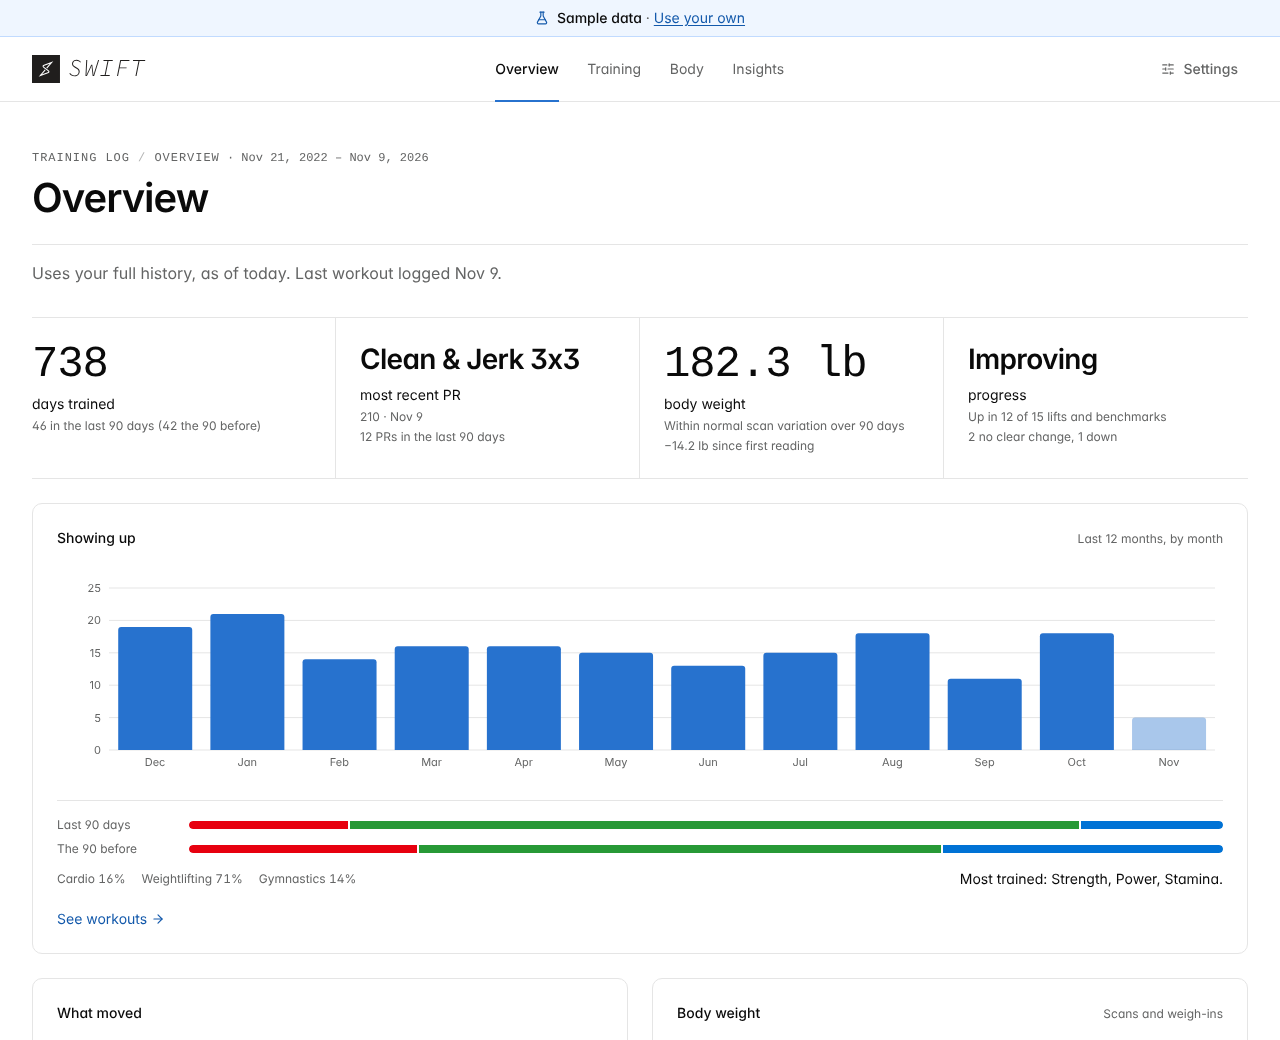
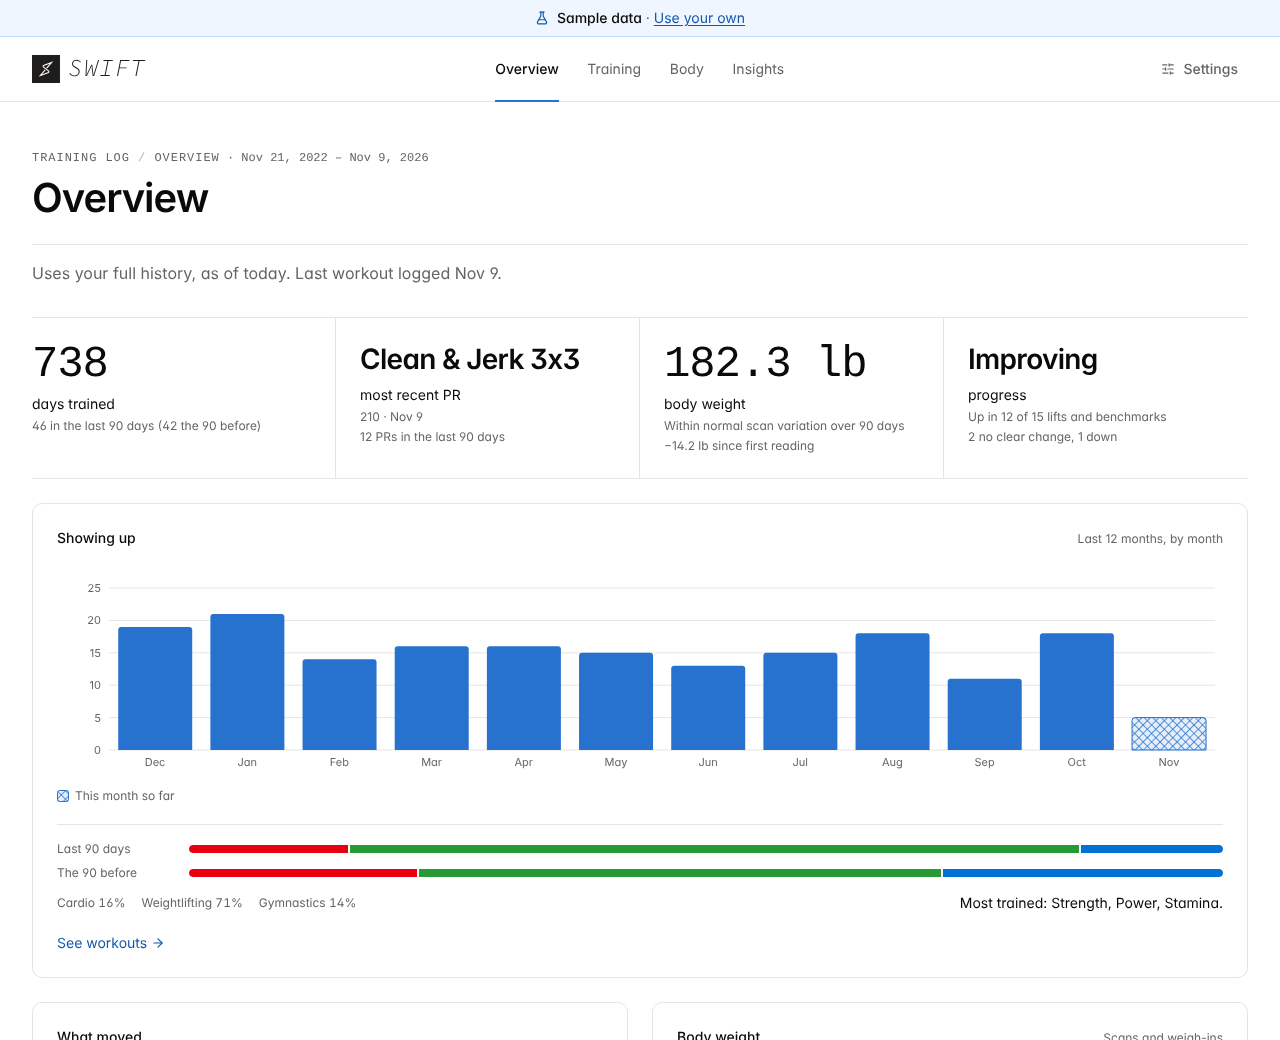
Overview: mark the in-progress month with a diamond cross-hatch
The current month's bar in Showing up was drawn at reduced opacity. It
now has an outlined diamond cross-hatch in the accent over a faint wash,
plus a small key under the chart ("This month so far"). A pattern reads
as a different kind of bar rather than a smaller amount, and doesn't
depend on colour. The key appears only when the current month has days
to show. README Overview screenshots retaken.

Claude-Session: https://claude.ai/code/session_01KDmeT7b27MNaTuikcGhEmZ

diff --git a/src/components/dashboard/overview/OverviewPanels.tsx b/src/components/dashboard/overview/OverviewPanels.tsx
@@ -1,3 +1,4 @@
+import { useId } from "react";
 import dayjs from "dayjs";
 import { ArrowRight } from "lucide-react";
 import { Bar, BarChart, CartesianGrid, Cell, Line, LineChart, XAxis, YAxis } from "recharts";
@@ -56,12 +57,50 @@ function PanelHeader({ title, caption }: { title: string; caption?: string }) {
 // ── Training ──────────────────────────────────────────────────────────────
 
 /**
+ * The fill that marks a month still under way: a diamond cross-hatch in the
+ * accent over a faint wash of it. A pattern rather than a lighter shade, so
+ * "in progress" reads as a different kind of bar, not a smaller amount, and
+ * survives without colour. One definition serves the bar and its key; `id`
+ * comes from useId with the colons React puts in it stripped, since they are
+ * awkward inside `url(#...)`.
+ */
+function InProgressPattern({ id }: { id: string }) {
+  return (
+    <pattern id={id} width="6" height="6" patternUnits="userSpaceOnUse" patternTransform="rotate(45)">
+      <rect width="6" height="6" fill="var(--primary)" fillOpacity={0.12} />
+      <path d="M0 0H6M0 0V6" stroke="var(--primary)" strokeWidth="1.5" />
+    </pattern>
+  );
+}
+
+function useSvgId(prefix: string): string {
+  return `${prefix}-${useId().replace(/[^a-zA-Z0-9_-]/g, "")}`;
+}
+
+/** The key under the chart: a swatch of the in-progress fill and what it means. */
+function InProgressKey() {
+  const id = useSvgId("in-progress-key");
+  return (
+    <span className="flex items-center gap-1.5 text-xs text-muted-foreground">
+      <svg width="12" height="12" aria-hidden className="shrink-0">
+        <defs>
+          <InProgressPattern id={id} />
+        </defs>
+        <rect x="0.5" y="0.5" width="11" height="11" rx="2" fill={`url(#${id})`} stroke="var(--primary)" strokeWidth="1" />
+      </svg>
+      This month so far
+    </span>
+  );
+}
+
+/**
  * Days trained per month over the last 12 months. The current month is drawn
- * lighter and its tooltip says "so far", so a partial month doesn't read as a
- * drop. No 90-day marker: 90 days rarely falls on a month boundary, so shading
+ * with a diamond cross-hatch (InProgressPattern) and its tooltip says "so far",
+ * so a partial month doesn't read as a drop. No 90-day marker: 90 days rarely falls on a month boundary, so shading
  * whole bars would mark a different period from the one the totals count.
  */
 function MonthlyDaysChart({ months }: { months: MonthDays[] }) {
+  const patternId = useSvgId("in-progress");
   const data = months.map((m) => ({ ...m, label: dayjs(`${m.month}-01`).format("MMM") }));
   const best = Math.max(1, ...months.map((m) => m.days));
   const { domain, ticks } = niceAxisTicks(0, best, AXIS_TICK_COUNT, true);
@@ -75,6 +114,9 @@ function MonthlyDaysChart({ months }: { months: MonthDays[] }) {
   return (
     <ChartContainer config={config} className="h-[200px] w-full min-w-0" role="img" aria-label={aria}>
       <BarChart data={data} margin={{ top: 8, right: 8, bottom: 0, left: 0 }}>
+        <defs>
+          <InProgressPattern id={patternId} />
+        </defs>
         <CartesianGrid vertical={false} stroke="var(--border)" />
         <XAxis dataKey="label" interval="preserveStartEnd" minTickGap={8} {...AXIS_PROPS} />
         <YAxis width={NUM_AXIS_WIDTH} domain={domain} ticks={ticks} interval={0} {...AXIS_PROPS} />
@@ -95,7 +137,13 @@ function MonthlyDaysChart({ months }: { months: MonthDays[] }) {
         />
         <Bar dataKey="days" fill="var(--primary)" radius={[3, 3, 0, 0]}>
           {data.map((m) => (
-            <Cell key={m.month} fill="var(--primary)" fillOpacity={m.partial ? 0.4 : 1} />
+            <Cell
+              key={m.month}
+              fill={m.partial ? `url(#${patternId})` : "var(--primary)"}
+              stroke={m.partial ? "var(--primary)" : "none"}
+              strokeWidth={m.partial ? 1 : 0}
+              data-partial={m.partial ? "true" : undefined}
+            />
           ))}
         </Bar>
       </BarChart>
@@ -127,7 +175,10 @@ export function TrainingPanel({
     <Card>
       <PanelHeader title="Showing up" caption={`Last ${OVERVIEW_CHART_MONTHS} months, by month`} />
       <CardContent className="flex flex-col gap-5">
-        <MonthlyDaysChart months={months} />
+        <div className="flex flex-col gap-2">
+          <MonthlyDaysChart months={months} />
+          {months.some((m) => m.partial && m.days > 0) ? <InProgressKey /> : null}
+        </div>
         <section aria-label="What it was made of" className="flex flex-col gap-3 border-t border-border pt-4">
           {mix.recent ? (
             <>

diff --git a/tests/overview.test.tsx b/tests/overview.test.tsx
@@ -303,6 +303,17 @@ describe("OverviewTab panels", () => {
     expect(screen.queryByText("Cardio, weights, gymnastics")).not.toBeInTheDocument();
   });
 
+  it("keys the in-progress month's cross-hatch, and only when the chart has a current month", () => {
+    const current = [logRow(daysAgo(2), "FRAN")];
+    const { unmount } = render(<OverviewTab insights={buildInsights(current)} workouts={current} asOf={TODAY} />);
+    expect(screen.getByText("This month so far")).toBeInTheDocument();
+    unmount();
+    // A log that ended over a year ago draws an empty current month: no hatched bar, so nothing to key.
+    const old = [logRow(daysAgo(500), "FRAN")];
+    render(<OverviewTab insights={buildInsights(old)} workouts={old} asOf={TODAY} />);
+    expect(screen.queryByText("This month so far")).not.toBeInTheDocument();
+  });
+
   it("says what's missing in one line each, and still offers the sections", () => {
     const rows = [logRow(daysAgo(200), "FRAN")];
     const onNavigate = vi.fn();

diff --git a/docs/overview.md b/docs/overview.md
@@ -103,7 +103,10 @@ a phone.
 28. **Showing up:** days trained per calendar month, as bars, over **the last 12 months**.
 29. The panel header carries a small muted caption: *"Last 12 months, by month"*.
     - This is the one place on the page that doesn't use full history, so it says so where it applies.
-30. The current month's bar is drawn lighter, with "so far" in its tooltip, so a partial month doesn't read as a drop.
+30. The current month's bar is drawn with a diamond cross-hatch in the accent, outlined, with a small key under the
+    chart ("This month so far") and "so far" in its tooltip, so a partial month doesn't read as a drop. A pattern
+    rather than a lighter shade, so it reads as a different kind of bar rather than a smaller amount, without relying
+    on colour.
 31. With under 12 months of history, bars start at the first logged month. No empty months are drawn before it.
 32. No 90-day marker on the chart. 90 days rarely falls on a month boundary, so shading whole bars would mark a
     different period from the one the totals count.

diff --git a/CLAUDE.md b/CLAUDE.md
@@ -526,7 +526,7 @@ home. Read the header comments of the files named here before moving anything be
   Overview is the full-history front door (`docs/overview.md` holds the acceptance criteria and their
   reasons). A totals row (days trained, most recent PR, body weight, the Progress headline), then three
   panels (`overview/OverviewPanels.tsx`), each the evidence for one stat with a link into its section:
-  Training (days trained per calendar month over the last 12 months, the current month drawn lighter,
+  Training (days trained per calendar month over the last 12 months, the current month drawn with a diamond cross-hatch and a key,
   then the last 90 days' M/W/G split beside the 90 before and the three most-trained domains; least
   trained is left out on purpose), Insights (Progress's up and down rows, at most five, most recently
   logged first, each opening its own row on Progress through `focusSubjectKey`, plus the latest Timeline
